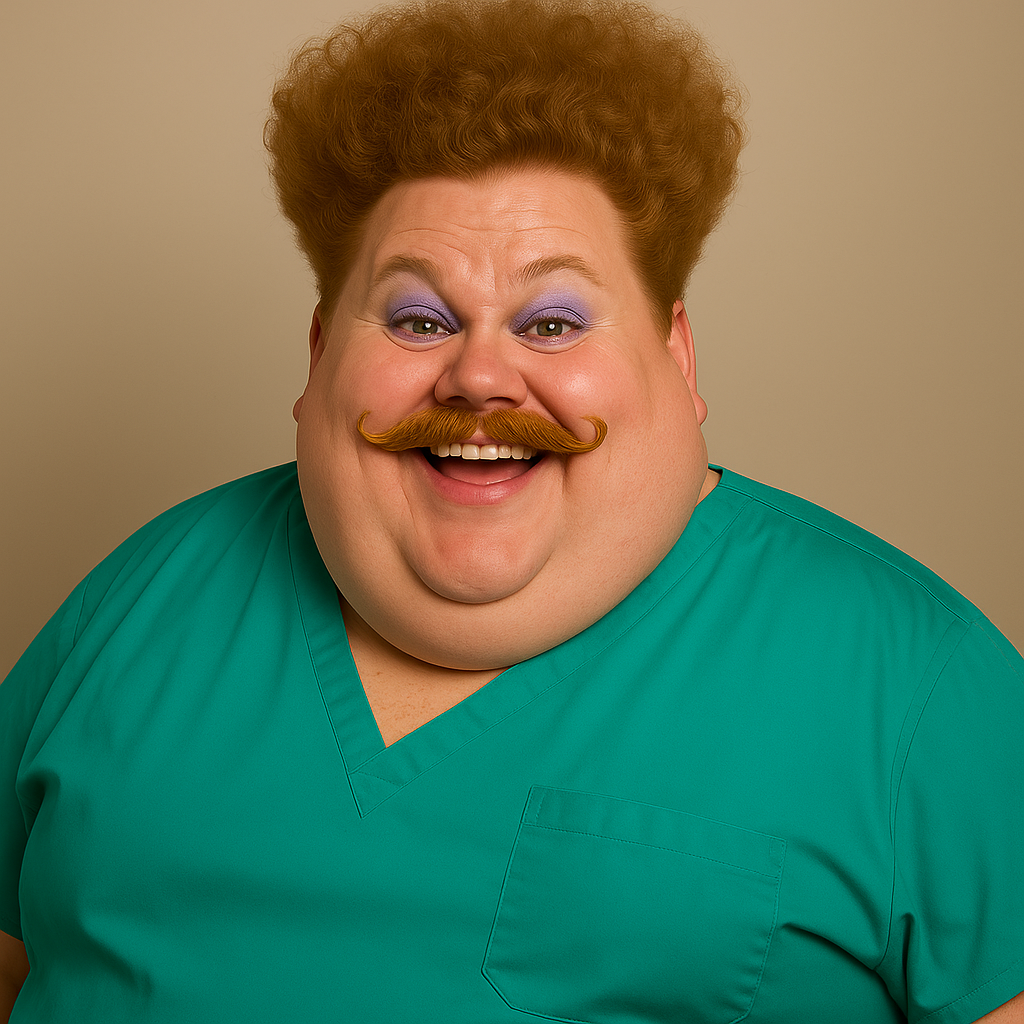
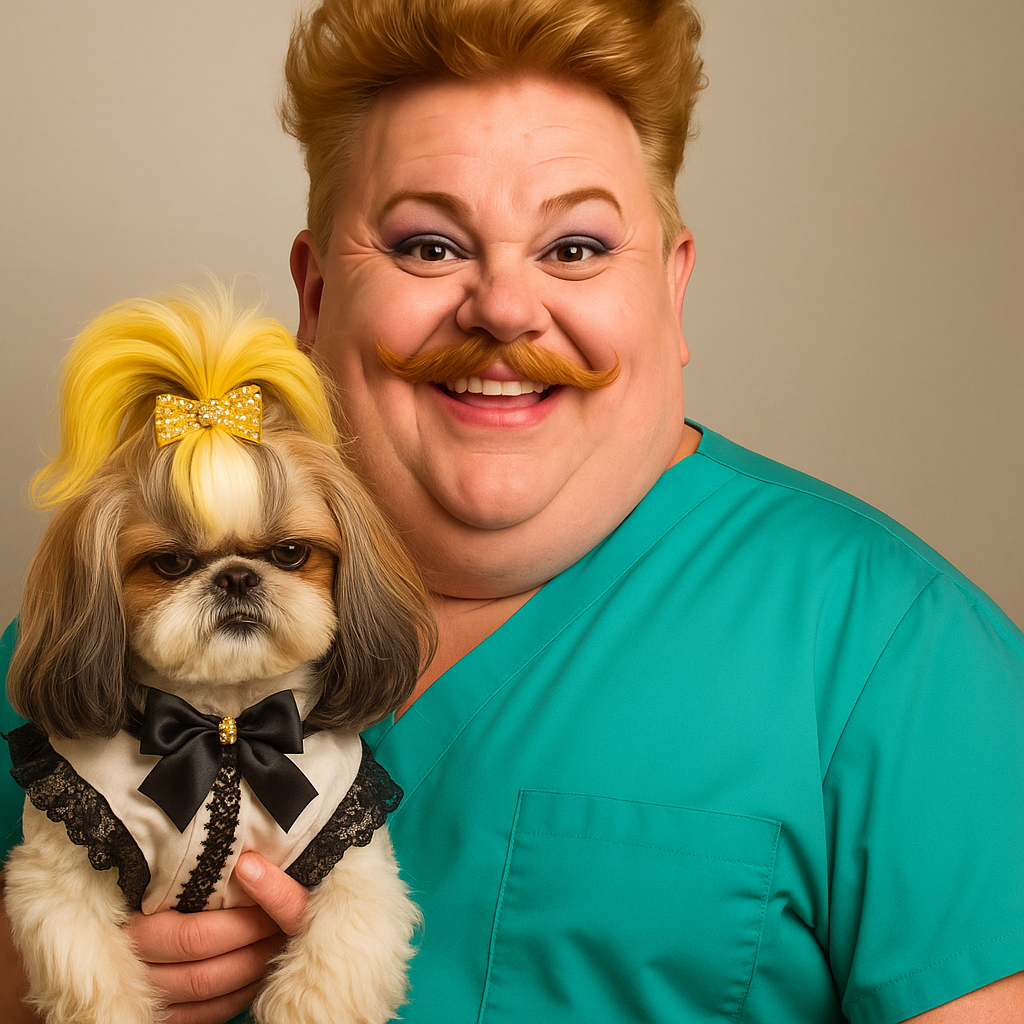
#04 Added initial login page and auth context

diff --git a/beauty-clinic/src/context/AuthContext.tsx b/beauty-clinic/src/context/AuthContext.tsx
@@ -1,0 +1,59 @@
+import React, { createContext, useContext, useEffect, useState } from "react";
+import { customFetch } from "../services/customFetch";
+import { Role } from "../model/role";
+
+type AuthContextType = {
+  name: string;
+  userID: Role | null;
+  mobileNumber: string;
+  login: (mobileNumber: string, password: string) => void;
+  logout: () => void;
+};
+
+const AuthContext = createContext<AuthContextType | null>(null);
+
+export const AuthProvider = ({ children }: { children: React.ReactNode }) => {
+  const [userID, setUserID] = useState<Role | null>(null);
+  const [name, setName] = useState<string>("");
+  const [mobileNumber, setMobileNumber] = useState<string>("");
+  const [loading, setLoading] = useState(true);
+
+  async function login(mobileNumber: string, password: string) {
+    try {
+      const data = await customFetch(
+        "http://127.0.0.1:3000/api/login",
+        { mobileNumber, password },
+        "POST"
+      );
+
+      if (data.status === 200) {
+        setUserID(data.userID);
+        setName(data.name);
+        setMobileNumber(data.mobileNumber);
+      }
+
+    } catch (error) {
+      console.log("incorrect credential");
+      console.error(error);
+    }
+  }
+
+  const logout = () => {
+    localStorage.removeItem("accessToken");
+    setUserID(null);
+        setName('');
+        setMobileNumber('');
+  };
+
+  return (
+    <AuthContext.Provider value={{ name, userID, mobileNumber, login, logout }}>
+      {children}
+    </AuthContext.Provider>
+  );
+};
+
+export const useAuth = () => {
+  const context = useContext(AuthContext);
+  if (!context) throw new Error("useAuth must be used within AuthProvider");
+  return context;
+};

diff --git a/beauty-clinic/src/services/customFetch.ts b/beauty-clinic/src/services/customFetch.ts
@@ -1,0 +1,45 @@
+type FetchMethod = "GET" | "POST" | "PUT" | "DELETE" | "PATCH";
+
+interface CustomFetchOptions {
+  method?: FetchMethod;
+  body?: any;
+  timeout?: number;
+}
+
+export async function customFetch(
+  url: string,
+  body?: object,
+  method? : FetchMethod
+) {
+
+  const controller = new AbortController();
+  const id = setTimeout(() => controller.abort(), 10000);
+
+  const fetchOptions: RequestInit = {                                                                                                                                
+    method,
+    credentials: 'include',
+    headers: {
+      "Content-Type": "application/json",
+      Accept: "application/json",
+    },
+    signal: controller.signal,
+  };
+
+  try {
+    if (body && method !== "GET") {
+    fetchOptions.body = JSON.stringify(body);
+  }
+    const response = await fetch(url, fetchOptions);
+
+    const data = await response.json();
+    return data;
+  } catch (error) {
+    if ((error as Error).name === "AbortError") {
+      console.error(`Request to ${url} aborted`);
+    }
+    console.error((error as Error).toString());
+    throw error;
+  } finally {
+    clearTimeout(id);
+  }
+}

diff --git a/beauty-clinic/src/pages/Login.tsx b/beauty-clinic/src/pages/Login.tsx
@@ -1,0 +1,27 @@
+import React, { useState } from "react";
+import { customFetch } from "../services/customFetch";
+import { useNavigate } from "react-router-dom";
+import { useAuth } from "../context/AuthContext";
+
+
+export const Login = () => {
+  const [mobileNumber, setMobileNumber] = useState<string>("");
+  const [password, setPassword] = useState<string>("");
+  const navigate = useNavigate();
+    const { login } = useAuth();
+
+
+  return (
+    <div>
+      <div>
+        <label>Mobile Number</label>
+        <input onChange={(e) => setMobileNumber(e.target.value)} />
+      </div>
+      <div>
+        <label>Password</label>
+        <input onChange={(e) => setPassword(e.target.value)} />
+      </div>
+      <button onClick={()=> login(mobileNumber, password)}>Login</button>
+    </div>
+  );
+};

diff --git a/beauty-clinic/src/App.tsx b/beauty-clinic/src/App.tsx
@@ -2,7 +2,7 @@ import React from "react";
 import "./App.css";
 import { NavBar } from "./components/NavBar";
 import { Route, Routes, useLocation } from "react-router-dom";
-import { Homepage, Clinicians, BookingTreatment } from "./pages";
+import { Homepage, Clinicians, BookingTreatment, Login, Landing } from "./pages";
 import { BookNowBtn, Footer } from "./components";
 
 export const App = () => {
@@ -18,6 +18,9 @@ export const App = () => {
         <Route path="/" element={<Homepage />} />
         <Route path="/clinicians" element={<Clinicians />} />
         <Route path="/booking" element={<BookingTreatment />} />
+        <Route path="/login" element={<Login />} />
+        <Route path="/landing" element={<Landing />} />
+
       </Routes>
       <Footer />
     </>

diff --git a/beauty-clinic/src/pages/Clinicians.tsx b/beauty-clinic/src/pages/Clinicians.tsx
@@ -1,5 +1,6 @@
 import React, { useState, useEffect } from "react";
 import { ClinicianProfile } from "../components/CliniciansProfile";
+import { customFetch } from "../services/customFetch";
 
 export interface Clinician {
   ID: number;
@@ -13,8 +14,7 @@ export const Clinicians = () => {
   const [clinicians, setClinicians] = useState<Clinician[]>([]);
 
   async function fetchData() {
-    const response = await fetch("http://127.0.0.1:3000/api/clinicians");
-    const data = await response.json();
+    const data = await customFetch("http://127.0.0.1:3000/api/clinicians");
     if (data) {
       setClinicians(data);
       console.info(data);

diff --git a/beauty-clinic/src/index.tsx b/beauty-clinic/src/index.tsx
@@ -3,14 +3,17 @@ import ReactDOM from "react-dom/client";
 import "./index.css";
 import { App } from "./App";
 import { BrowserRouter } from "react-router-dom";
+import { AuthProvider } from "./context/AuthContext";
 
 const root = ReactDOM.createRoot(
   document.getElementById("root") as HTMLElement
 );
 root.render(
   <React.StrictMode>
+    <AuthProvider>
     <BrowserRouter>
       <App />
     </BrowserRouter>
+  </AuthProvider>
   </React.StrictMode>
 );

diff --git a/beauty-clinic/src/components/NavBar.tsx b/beauty-clinic/src/components/NavBar.tsx
@@ -7,7 +7,7 @@ export const NavBar = () => {
   return (
     <nav className='nav-bar'>
       <Link to="/" className={'link-text'}>Home</Link>
-      <Link to="/clinicians" className={'link-text'}>Clinicans</Link>
+      <Link to="/clinicians" className={'link-text'}>Clinicians</Link>
       <Link to="/login" className={'link-text-login'}>Login</Link>
     </nav>
   );

diff --git a/beauty-clinic/src/pages/Landing.tsx b/beauty-clinic/src/pages/Landing.tsx
@@ -1,0 +1,10 @@
+import React from "react";
+
+export const Landing = () => {
+
+    return (
+        <div>
+            <h2>Landing page</h2>
+        </div>
+    )
+}

diff --git a/beauty-clinic/src/pages/Index.ts b/beauty-clinic/src/pages/Index.ts
@@ -1,3 +1,5 @@
 export * from './Clinicians';
 export * from './Homepage'
 export * from './BookingTreatment';
+export * from './Login'
+export * from './Landing'

diff --git a/beauty-clinic/src/model/role.ts b/beauty-clinic/src/model/role.ts
@@ -1,0 +1,7 @@
+export enum Role {
+  IT = 8228,
+  CLINICIAN = 8802,
+  ADMINISTRATOR = 8803,
+  FOUNDER = 8804,
+  CLIENT = 1008
+}

diff --git a/beauty-clinic/src/model/user.ts b/beauty-clinic/src/model/user.ts
@@ -1,0 +1,5 @@
+export interface User {
+    username: string;
+    name: string;
+    roleID: number;
+}

diff --git a/beauty-clinic/src/model/index.ts b/beauty-clinic/src/model/index.ts
@@ -1,0 +1,2 @@
+export * from './user';
+export * from './role';
